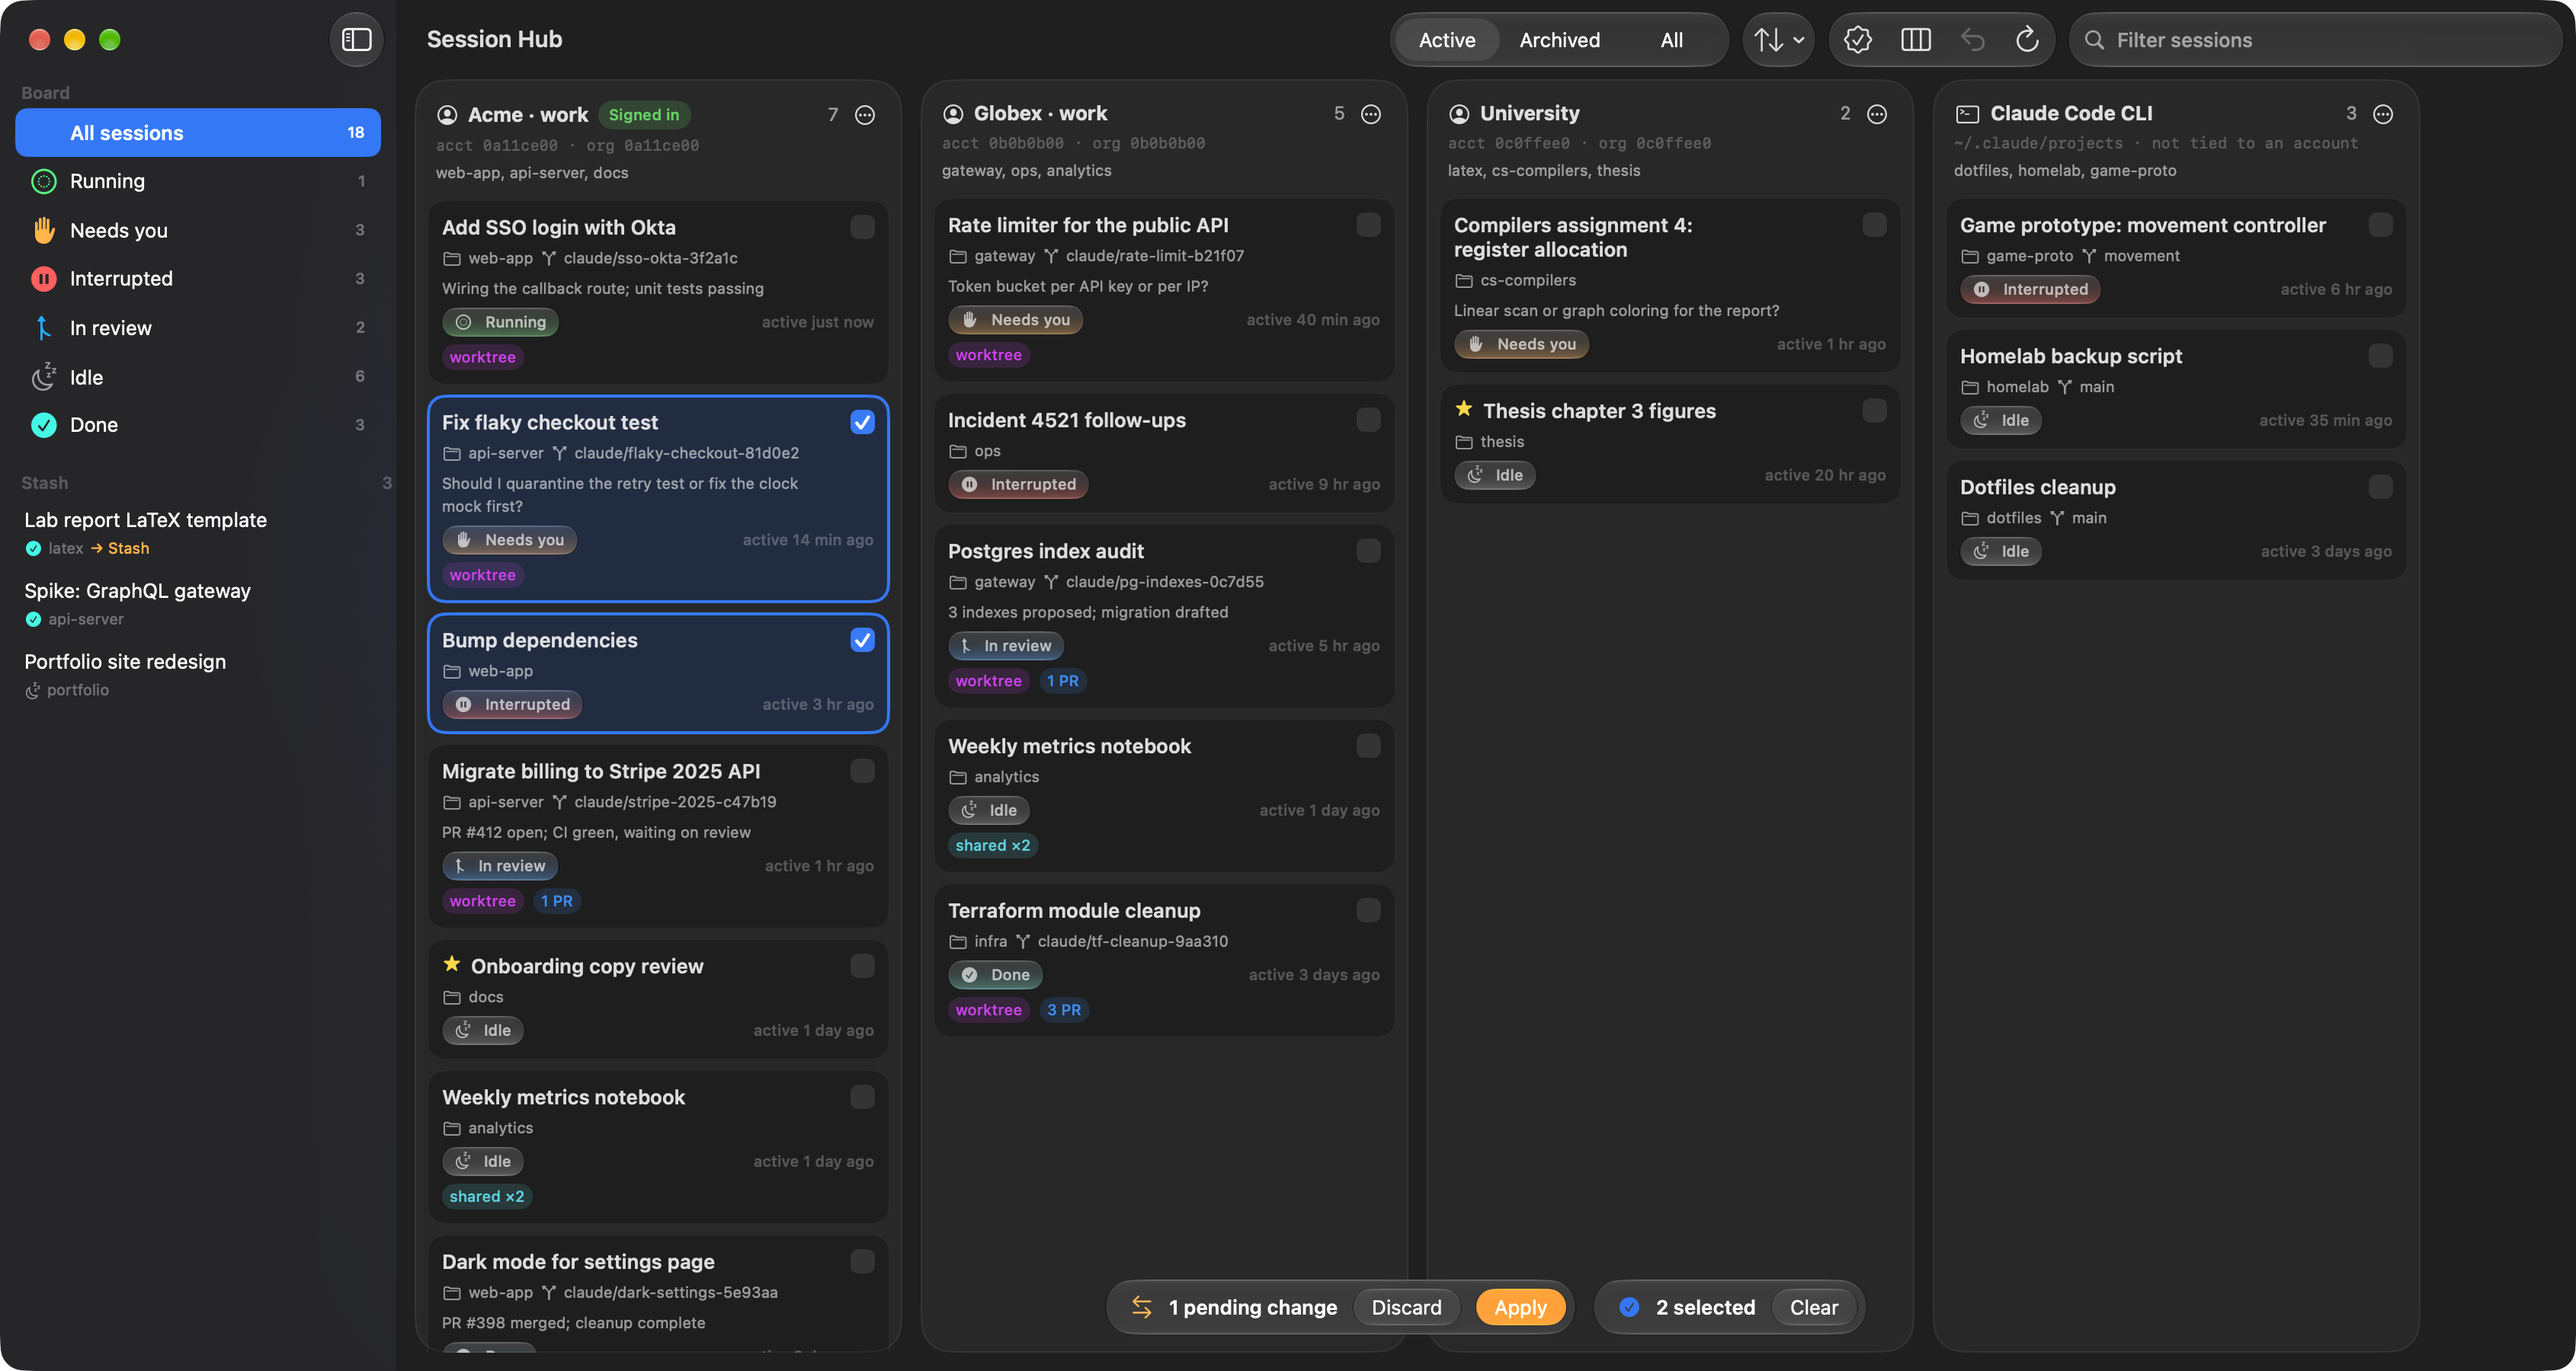
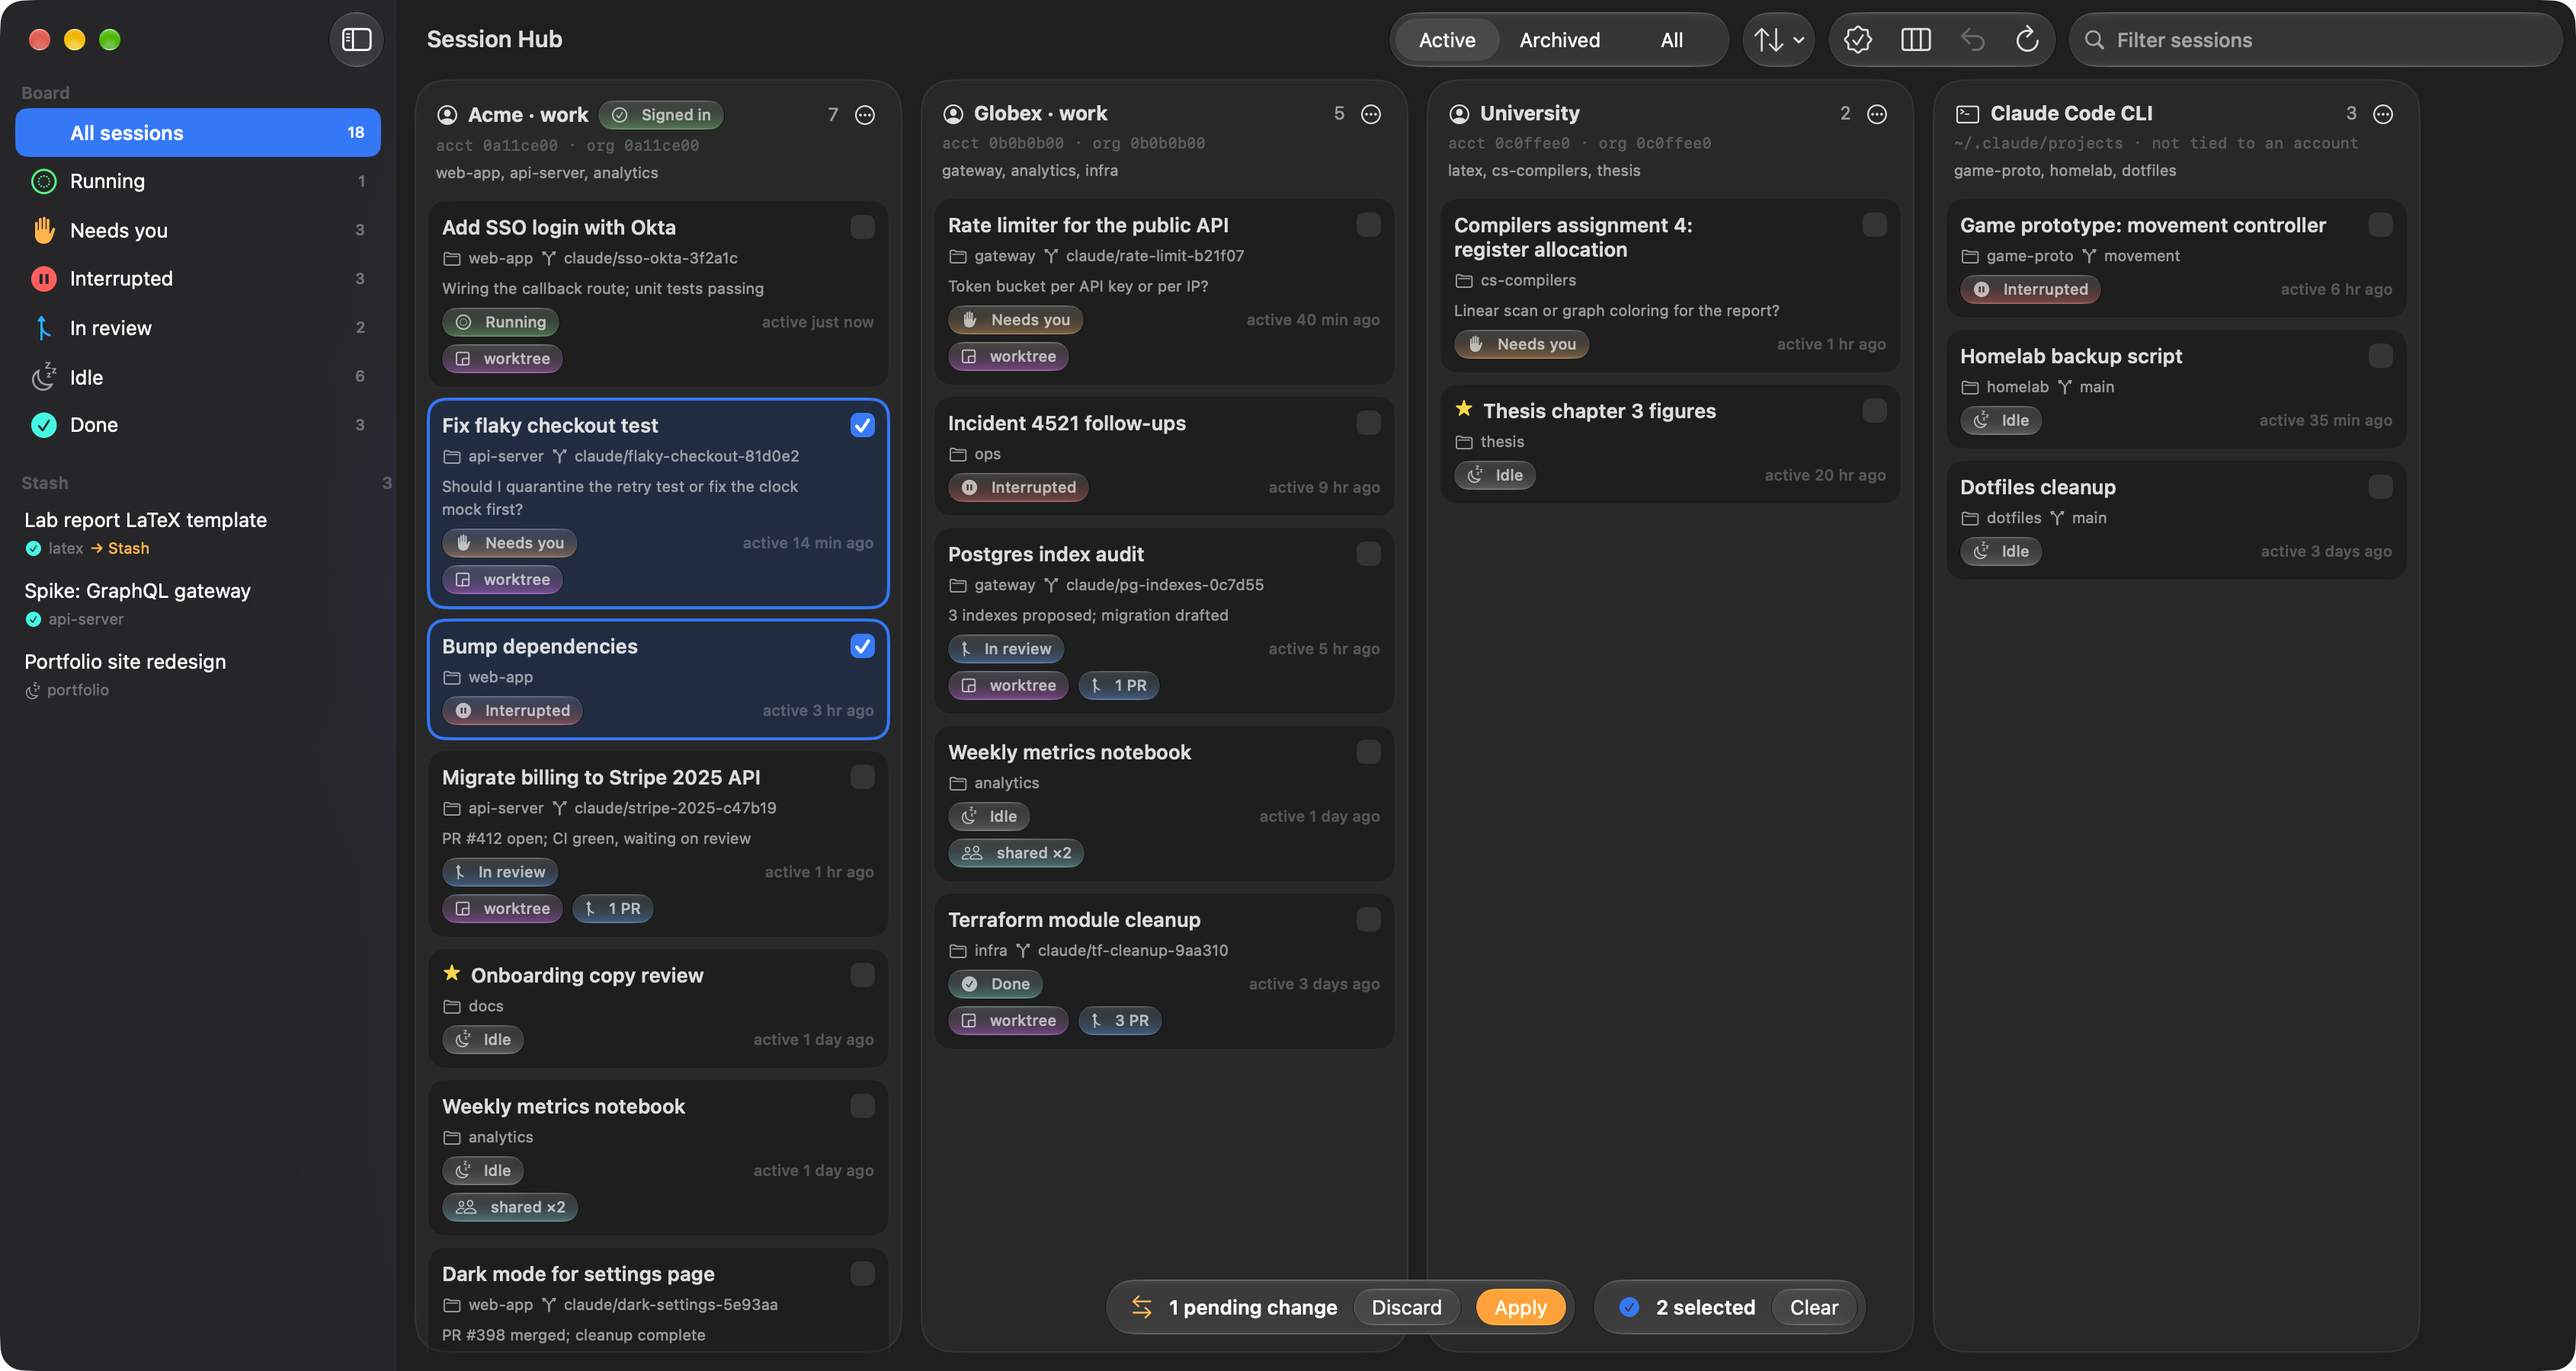
One badge style everywhere: worktree, archived, PR, shared, pending move, Signed in
GlassBadge (native glass, dimmed text, soft bottom-up shade) replaces the flat tags;
each badge gains an icon. Refreshed README screenshot.

diff --git a/Sources/SessionHub/Views.swift b/Sources/SessionHub/Views.swift
@@ -386,8 +386,8 @@ struct ColumnView: View {
                         .onTapGesture(count: 2) { draft = store.name(for: column); editing = true }
                 }
                 if column.accountUuid != nil && column.accountUuid == store.activeAccount {
-                    Text("Signed in").font(.caption2.weight(.semibold)).padding(.horizontal, 7).padding(.vertical, 2)
-                        .background(.green.opacity(0.18), in: Capsule()).foregroundStyle(.green)
+                    GlassBadge("Signed in", systemImage: "checkmark.circle", color: .green)
+                        .fixedSize()
                         .help("Claude Desktop's last signed-in account")
                 }
                 Spacer()
@@ -469,15 +469,21 @@ struct SessionCard: View {
             if s.isWorktree || s.isArchived || s.prCount > 0 || move != nil || !shared.isEmpty {
                 HStack(spacing: 6) {
                     if s.isWorktree {
-                        tag(s.cwdExists ? "worktree" : "worktree gone", color: s.cwdExists ? .purple : .red)
+                        GlassBadge(s.cwdExists ? "worktree" : "worktree gone",
+                                   systemImage: s.cwdExists ? "square.split.bottomrightquarter" : "exclamationmark.triangle",
+                                   color: s.cwdExists ? .purple : .red)
                     }
-                    if s.isArchived { tag("archived", color: .gray) }
-                    if s.prCount > 0 { tag("\(s.prCount) PR", color: .blue) }
+                    if s.isArchived { GlassBadge("archived", systemImage: "archivebox", color: .gray) }
+                    if s.prCount > 0 {
+                        GlassBadge("\(s.prCount) PR", systemImage: "arrow.triangle.pull", color: .blue)
+                            .fixedSize()
+                    }
                     if let m = move {
-                        tag((m.copy ? "+ " : "→ ") + store.name(for: store.column(m.to)), color: .orange)
+                        GlassBadge(store.name(for: store.column(m.to)), systemImage: m.copy ? "plus" : "arrow.right", color: .orange)
                     }
                     if !shared.isEmpty {
-                        tag("shared ×\(shared.count + 1)", color: .teal)
+                        GlassBadge("shared ×\(shared.count + 1)", systemImage: "person.2", color: .teal)
+                            .fixedSize()
                             .help("Also in: " + shared.map { store.name(for: store.column($0)) }.joined(separator: ", "))
                     }
             }
@@ -539,11 +545,6 @@ struct SessionCard: View {
         store.clearSelection()
     }
 
-    private func tag(_ text: String, color: Color) -> some View {
-        Text(text).font(.caption2.weight(.medium)).lineLimit(1).truncationMode(.middle)
-            .padding(.horizontal, 5).padding(.vertical, 1)
-            .background(color.opacity(0.15), in: Capsule()).foregroundStyle(color)
-    }
 }
 
 struct DragPreview: View {
@@ -709,21 +710,39 @@ struct StatusChip: View {
     let reason: String
 
     var body: some View {
-        Label(status.label, systemImage: status.symbol)
-            .labelStyle(.titleAndIcon)
-            .font(.caption2.weight(.medium)).lineLimit(1).fixedSize()
-            .foregroundStyle(.primary.opacity(0.72))
-            .padding(.horizontal, 8).padding(.vertical, 2)
-            .background {
-                // A low, soft shade: color only in the bottom half, well under half strength.
-                LinearGradient(stops: [.init(color: status.color.opacity(0.32), location: 0),
-                                       .init(color: status.color.opacity(0.08), location: 0.55),
-                                       .init(color: status.color.opacity(0), location: 1)],
-                               startPoint: .bottom, endPoint: .top)
-                    .clipShape(Capsule())
-            }
-            .glassPanel(in: Capsule())
-            .help(reason)
+        GlassBadge(status.label, systemImage: status.symbol, color: status.color).fixedSize().help(reason)
+    }
+}
+
+/// The app's one badge style: native Liquid Glass capsule, dimmed neutral text, and a soft shade
+/// of `color` rising from the bottom edge. No border.
+struct GlassBadge: View {
+    let text: String
+    let systemImage: String?
+    let color: Color
+
+    init(_ text: String, systemImage: String? = nil, color: Color) {
+        self.text = text
+        self.systemImage = systemImage
+        self.color = color
+    }
+
+    var body: some View {
+        Group {
+            if let systemImage { Label(text, systemImage: systemImage).labelStyle(.titleAndIcon) } else { Text(text) }
+        }
+        .font(.caption2.weight(.medium)).lineLimit(1).truncationMode(.middle)
+        .foregroundStyle(.primary.opacity(0.72))
+        .padding(.horizontal, 8).padding(.vertical, 2)
+        .background {
+            // A low, soft shade: color only in the bottom half, well under half strength.
+            LinearGradient(stops: [.init(color: color.opacity(0.32), location: 0),
+                                   .init(color: color.opacity(0.08), location: 0.55),
+                                   .init(color: color.opacity(0), location: 1)],
+                           startPoint: .bottom, endPoint: .top)
+                .clipShape(Capsule())
+        }
+        .glassPanel(in: Capsule())
     }
 }
 
